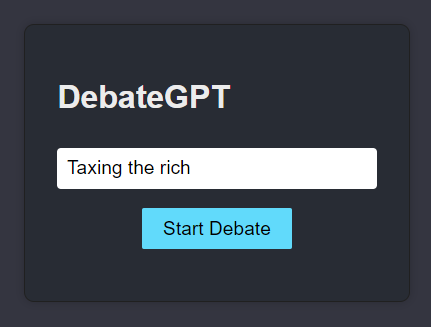
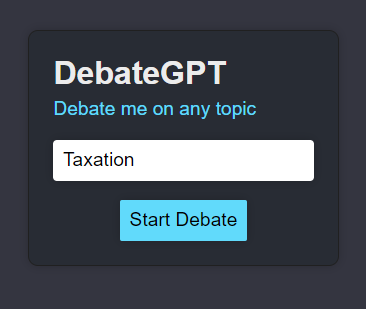
Showcase auto-gen, rating, update UI

Changed region(s): [[0.1202, 0.4369, 0.9016, 0.7282], [0.1202, 0.1748, 0.6913, 0.3786], [0.3306, 0.7573, 0.6913, 0.7864]]

diff --git a/readme.md b/readme.md
@@ -1,30 +1,36 @@
 # DebateGPT: A Debate adversary on any topic
+## Access
+You can try out the demo at [debategpt.emileamaj.xyz](http://debategpt.emileamaj.xyz/).
+
 ## Introduction
-DebateGPT is an AI chat adversary that can debate on any topic.  
-You select the topic, and start arguing right away.  
-This project was inspired by Marc Andreessen's remarks on [Lex Fridman's podcast 386](https://www.youtube.com/watch?v=-hxeDjAxvJ8&t=940s) (at 15:40), where talks about his experiments with GPT-4 debating with itself.
+DebateGPT is an AI adversary chatbot that can debate on any topic.  
+You select the topic, and start to debate right away.  
+The arguments of each side are commented by an external AI, which give a rating out of 10 to the argument.  
+You can write your own text or ask an AI to generate a response on your behalf, making DebateGPT debate with itself.  
+DebateGPT will always take the opposite side of your argument, and try to refute it.  
+It uses the [GPT-3.5-turbo](https://platform.openai.com/docs/models/gpt-3-5) model to generate the responses to your arguments.  
 
-![Landing page, with "Taxing the rich" set as the topic](screen-debate-landing.png)
+This project was inspired by Marc Andreessen's remarks on [Lex Fridman's podcast 386](https://www.youtube.com/watch?v=-hxeDjAxvJ8&t=940s) (at 15:40), where he talks about his experiments with GPT-4 debating with itself.
 
-It uses the [GPT-3.5-turbo](https://platform.openai.com/docs/models/gpt-3-5) model to generate responses to your arguments.  
-You can try out the demo at [debategpt.emileamaj.xyz](https://debategpt.emileamaj.xyz/).  
-It uses a simple system prompt instructing the chat-based Large Language Model to debate with the user.  
+## Interface
+![Landing page, with "Taxation" set as the topic](screen-debate-landing.png)
+Set the topic of the debate, and click on "Start debate".  
 
-![The AI taking the side of taxing the rich](screen-debate-thread.png)
+![The AI taking the side of not taxing the poor](screen-debate-thread.png)
 
 The AI automatically takes the opposite side of the user's argument, and tries to refute it.  
 
-
 ![The AI against taxing the rich](screen-debate-thread-opposite.png)
 
-The "convictions" of the AI are in a way, set by the user's initial stance in the debate.  
+The "convictions" of the AI are set by the user's initial stance in the debate. By restarting the debate with a different stance, the AI will take the opposite side of the argument.
 
-## Running on your machine
+## Running the project
 To run this project on your local machine, you need to have [Node.js](https://nodejs.org/en/) installed.
 The backend of this project is in [Python](https://www.python.org/) and uses [FastAPI](https://fastapi.tiangolo.com/).
 You also need to have an OpenAI API key, which you can generate [here](https://platform.openai.com/account/api-keys).
 You need to create `.env` files in the `backend` and `frontend` folders, with the following content:
 
+Set the `REACT_APP_BACKEND_URL` variable to the URL of the backend server.
 ./frontend/.env
 ```
 REACT_APP_BACKEND_URL=http://localhost:8000
@@ -63,6 +69,7 @@ If everything went well, you should be able to access the project at [http://loc
 - [ ] Additional languages (currently only English is supported)
 - [ ] Add debate parameters (aggressive, polite, good faith, etc.)
 - [x] Argument quality estimation
+- [ ] Update ratings after argument text edition
 - [ ] Debate winner estimation
 - [x] Allow editing of the user's arguments
 - [x] Allow the AI to respond to the AI's arguments
